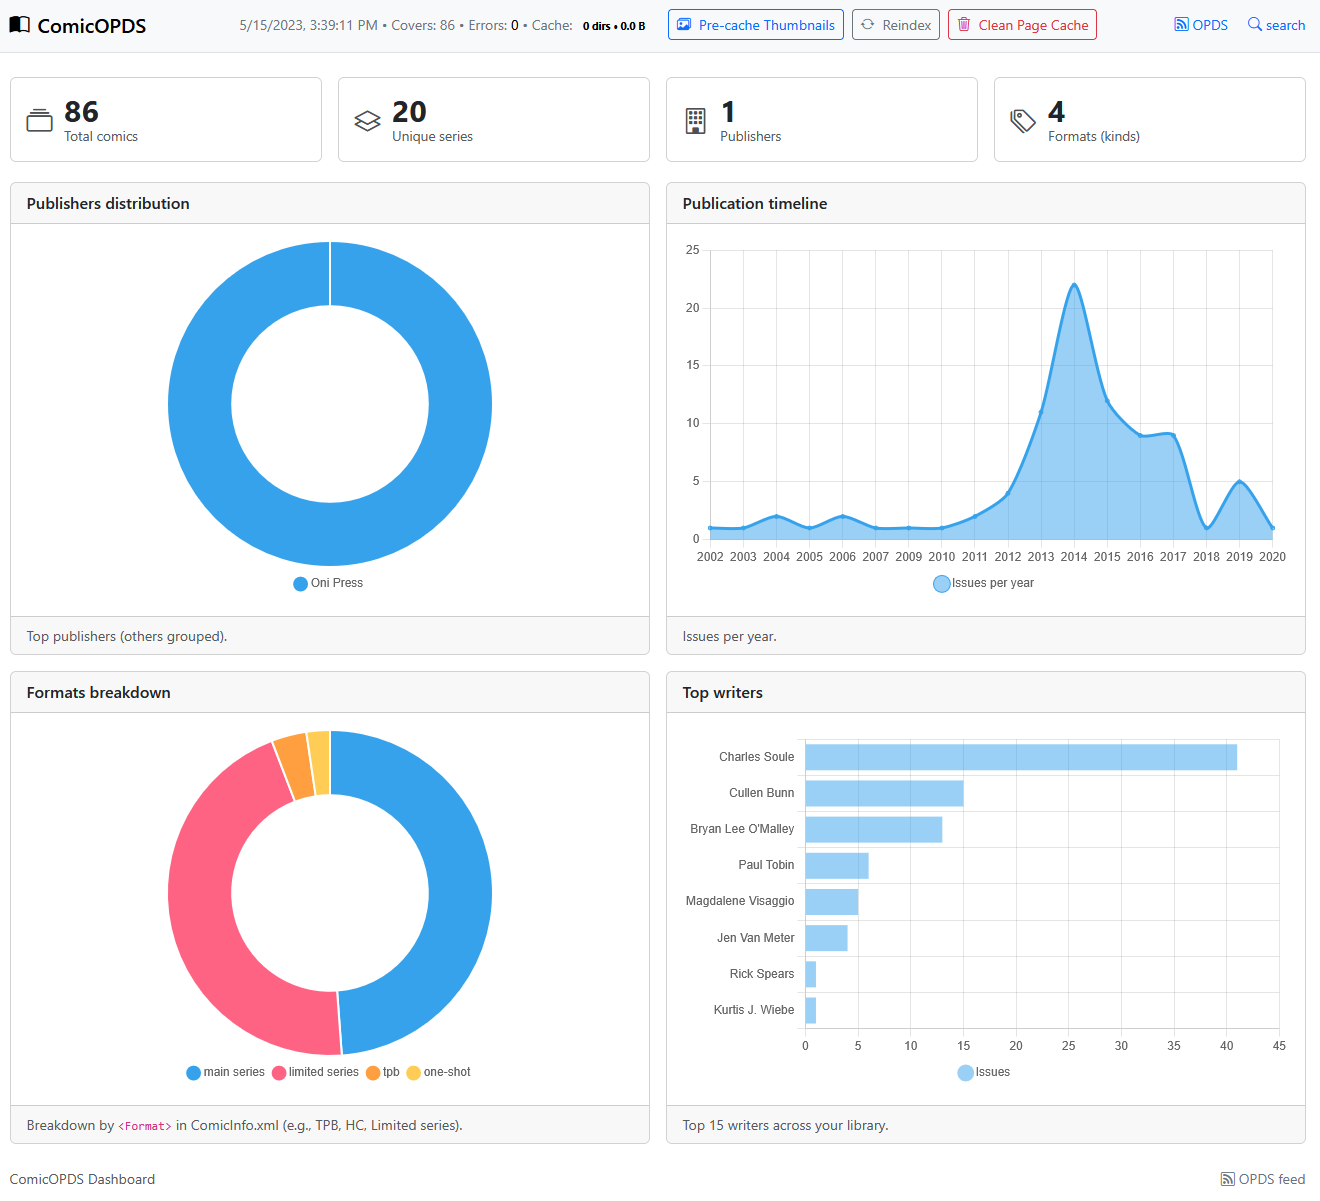
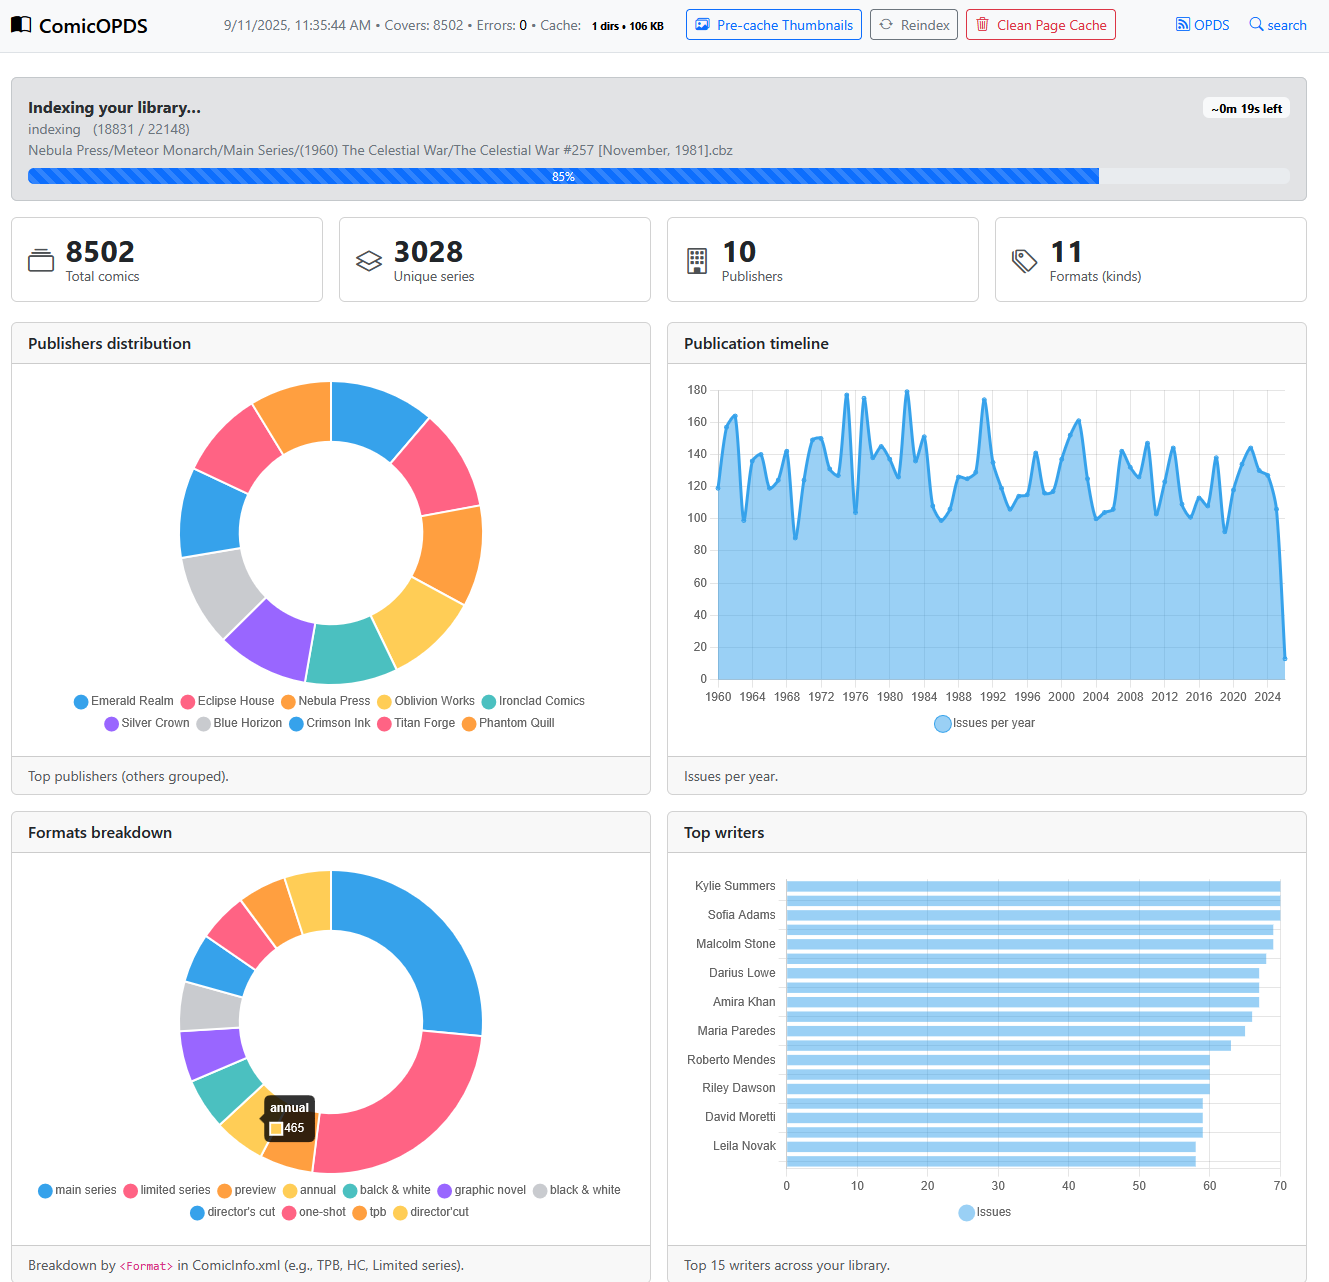
Updated docs and screenshots

diff --git a/docs/dashboard.md b/docs/dashboard.md
@@ -23,3 +23,7 @@ The dashboard provides a comprehensive overview of your comic library:
 ### Screenshot
 
 ![](img/dashboard.PNG)
+
+![](img/index.PNG)
+
+![](img/genthumbs.PNG)
